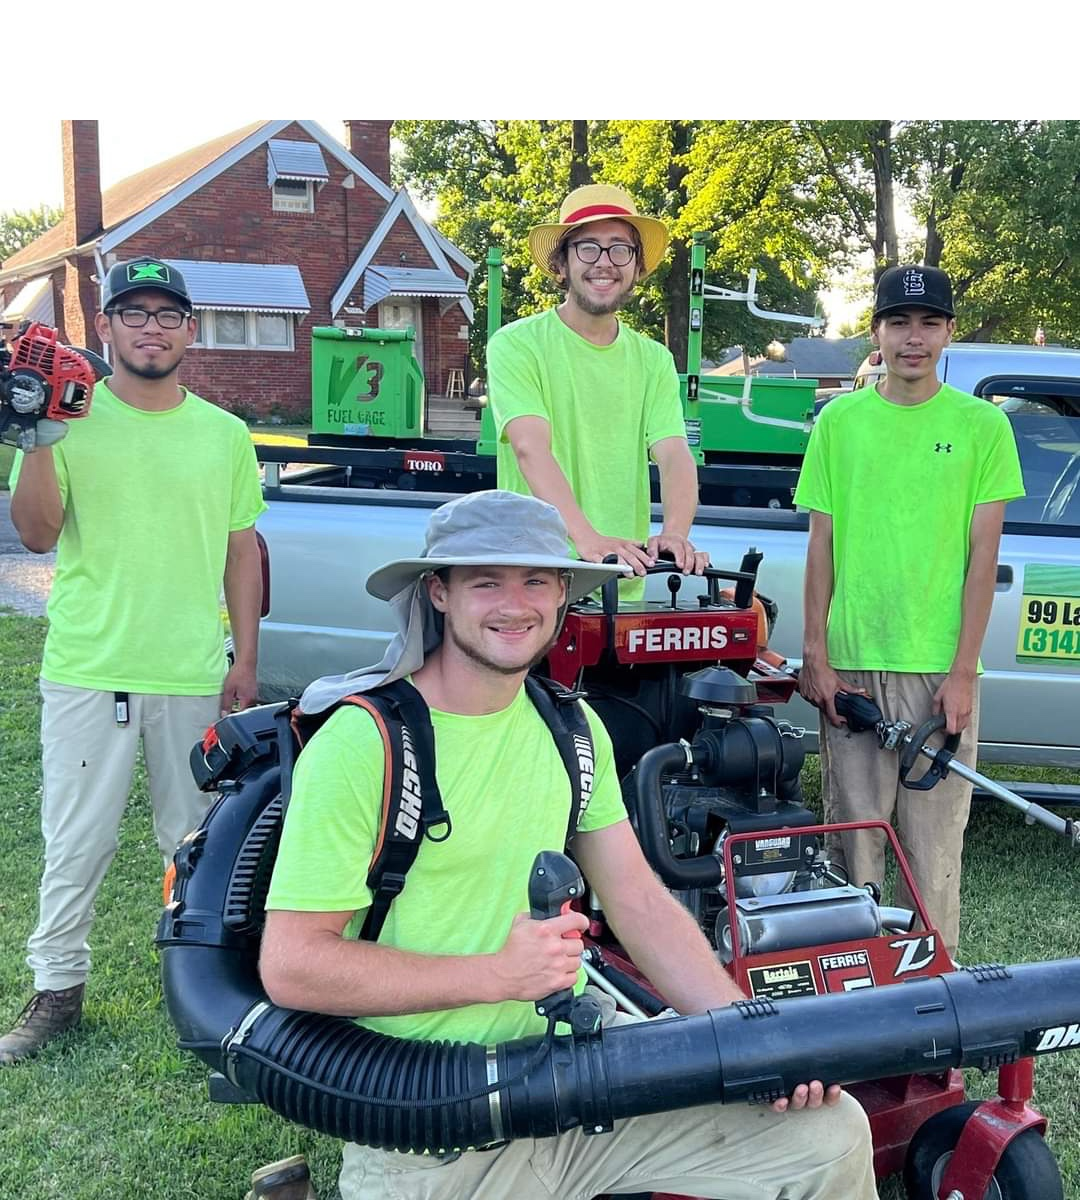
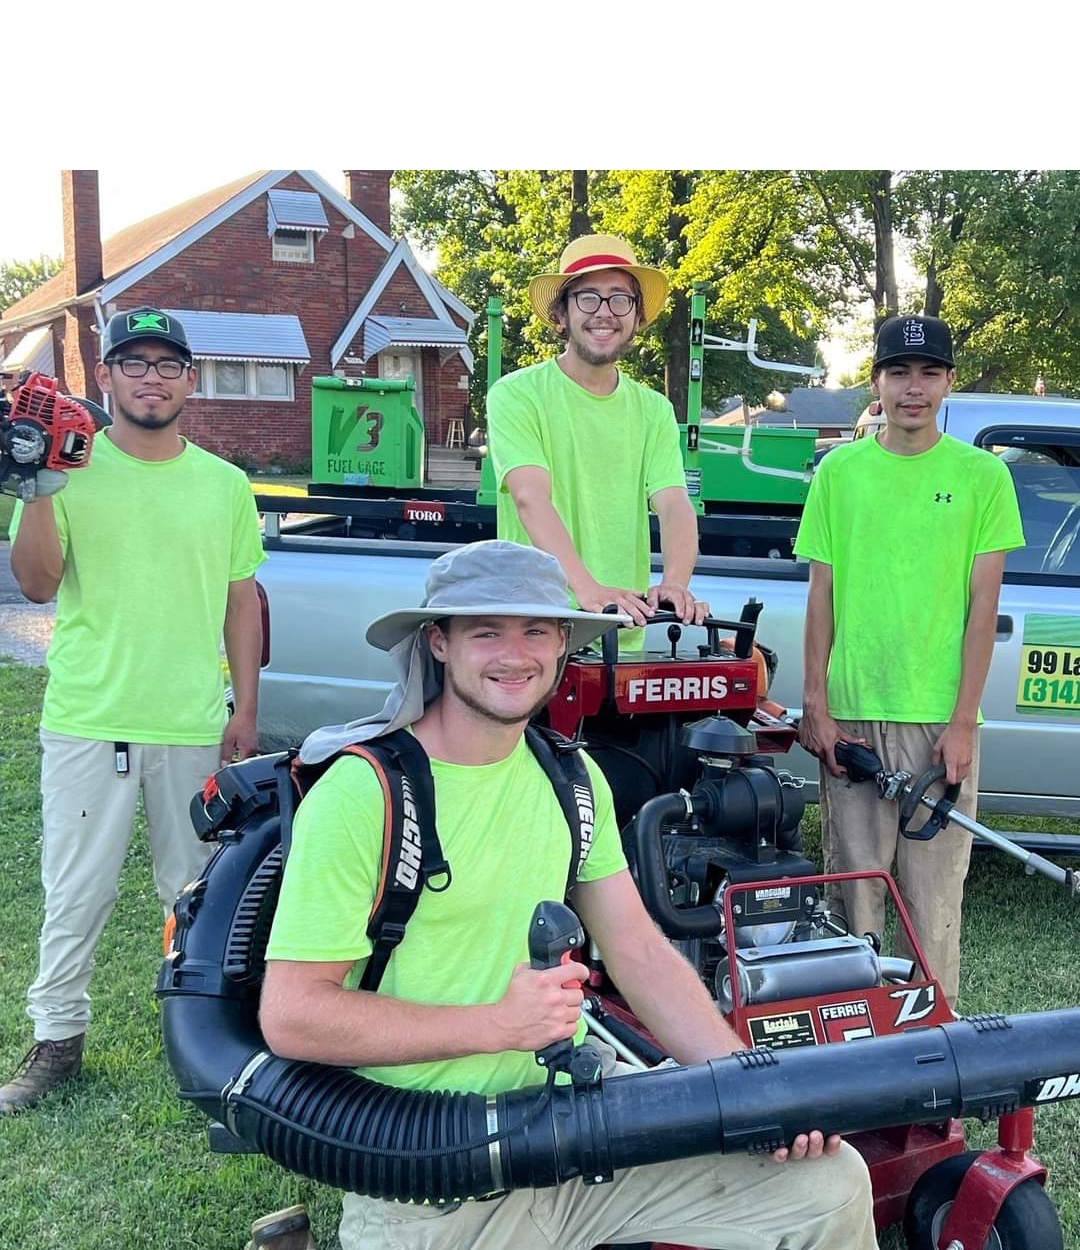
change from left to right on about us page and fix screen size issue with picture

diff --git a/config/tailwind.config.js b/config/tailwind.config.js
@@ -20,6 +20,7 @@ module.exports = {
         'randomhead4' : "url('hero4.jpg')",
         'randomhead69' : "url('hero69.jpg')",
         'teamspace' : "url('teamspace.jpg')",
+        'teamspace2' : "url('teamspace2.jpg')",
       }
     },
   },
